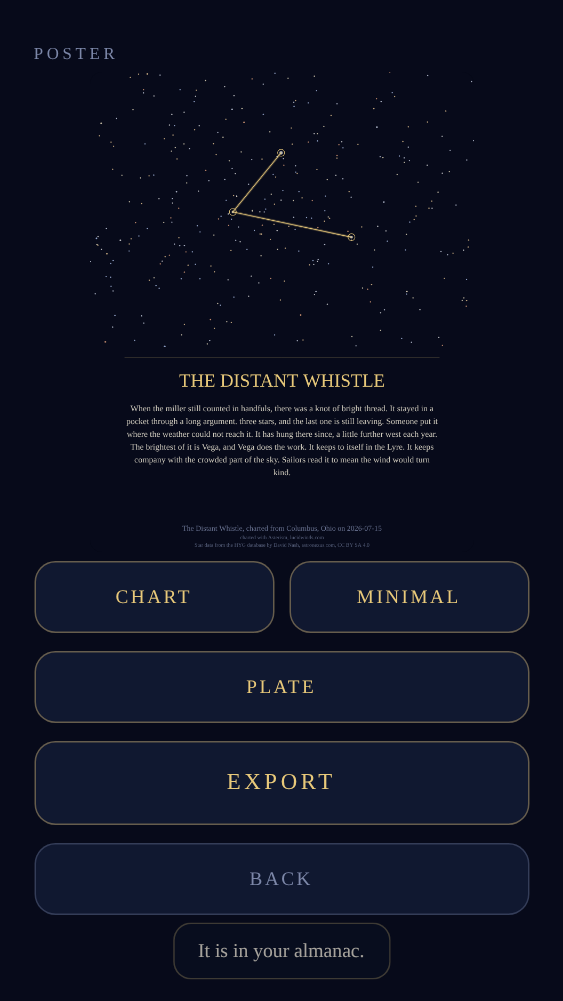
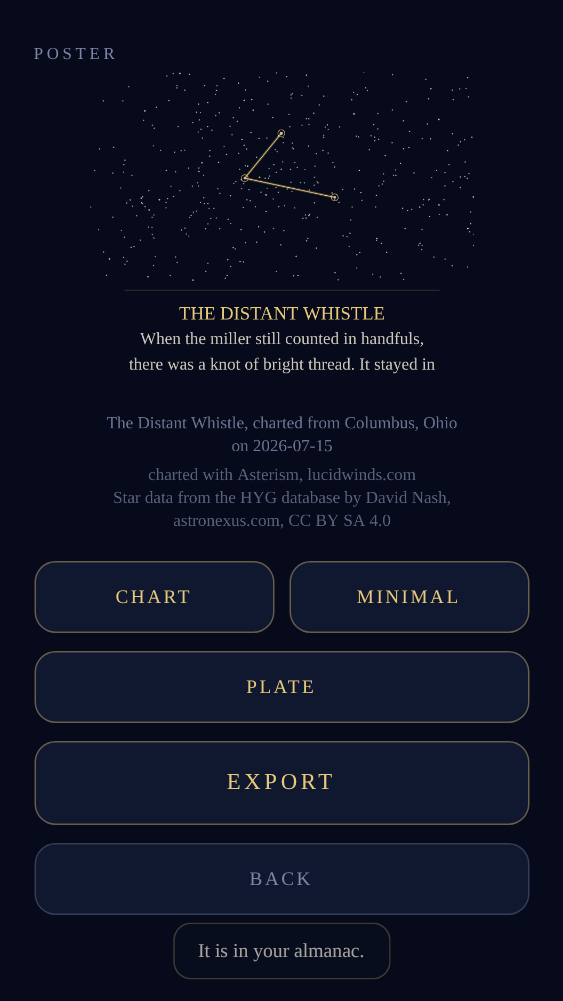
Asterism C10: the poster preview is its own layout, and the export is untouched to the pixel
The preview's smallest type was 5.0 CSS px, under the 0.7 rem law, and neither
lint could see it because the size is computed and the scale is a CSS rule in
another file.

Flooring the type alone was tried first and shipped worse, and was reverted the
same afternoon: every box is sized from the same fractions the type is, so the
myth overran its box, the foot landed on the myth and the credit ran off both
edges. A floor is not a layout.

The reflow: the myth's leading follows the type and its line count is whatever
fits, the foot has a band of its own and its lines wrap and walk a cursor, and
the chart gives way from 58 percent of the height to 44, because the poster's
own proportions do not leave room for a legible myth and a legible three line
credit in nine hundred pixels. A line under the canvas says the preview shows
the start of the myth and the poster carries all of it.

Three assertions, because the fault had three shapes and a size check can only
see one: the type is 0.7 rem on the screen, nothing overlaps or is clipped, and
the preview still shows a myth. That last one matters because with the chart
left alone the sum says no line fits, and a title with no words passes every
overlap check ever written.

Nine gates green. Stamp 20260907c.

Claude-Session: https://claude.ai/code/session_018DB4RoSYktXhZkZcaK82Vg

diff --git a/satellites/asterism/index.html b/satellites/asterism/index.html
@@ -9,9 +9,9 @@
 <meta name="apple-mobile-web-app-capable" content="yes">
 <meta name="apple-mobile-web-app-status-bar-style" content="black-translucent">
 <meta name="apple-mobile-web-app-title" content="ASTERISM">
-<link rel="manifest" href="./manifest.webmanifest?v=20260907b">
-<link rel="apple-touch-icon" href="./icon-192.png?v=20260907b">
-<link rel="icon" href="./icon-192.png?v=20260907b">
+<link rel="manifest" href="./manifest.webmanifest?v=20260907c">
+<link rel="apple-touch-icon" href="./icon-192.png?v=20260907c">
+<link rel="icon" href="./icon-192.png?v=20260907c">
 <link rel="canonical" href="https://lucidwinds.com/satellites/asterism/">
 <style>
 /*  ASTERISM
@@ -163,7 +163,7 @@ input:focus{outline:1px solid var(--gold)}
 .fail{color:#ff8080}.pass{color:#9be36b}
 @media (prefers-reduced-motion:reduce){*{transition-duration:1ms!important}}
 </style>
-<script src="/music-unlocks.js?v=20260907b" defer></script>
+<script src="/music-unlocks.js?v=20260907c" defer></script>
 </head>
 <body>
 <h1 style="position:absolute;width:1px;height:1px;margin:-1px;padding:0;overflow:hidden;clip:rect(0 0 0 0);clip-path:inset(50%);white-space:nowrap;border:0">ASTERISM</h1>
@@ -246,6 +246,7 @@ input:focus{outline:1px solid var(--gold)}
   <div class="screen" id="scrPoster">
     <div class="cap">Poster</div>
     <canvas id="posterPreview" width="720" height="900" style="width:100%;max-width:360px;border-radius:8px;background:#050814"></canvas>
+    <p class="tiny" id="posterNote">The preview shows the start of the myth at a size you can read. The poster carries all of it.</p>
     <div class="row">
       <button class="btn small" data-layout="chart" id="btnLayChart">CHART</button>
       <button class="btn small" data-layout="minimal" id="btnLayMin">MINIMAL</button>
@@ -2231,7 +2232,7 @@ function suitePurity(T, src) {
 // ---- TEST_EXPORT_END ----
 
 /* ========================= 13. BOOT ========================= */
-var STAMP = '20260907b';
+var STAMP = '20260907c';
 var G = {
   cat: null, place: null, whenMs: 0, mode: 'tonight',
   view: { alt: 55, az: 180, fov: CONFIG.FOV_DEFAULT },
@@ -2319,7 +2320,7 @@ function openMyth(entry) {
 }
 
 /* -------------------------------------------------------------- the poster */
-function drawChartTo(g, w, h, entry, layout) {
+function drawChartTo(g, w, h, entry, layout, chartFrac) {
   var i, cat = G.cat;
   var stars = starsOf(cat, entry.s);
   if (!stars.length) return;
@@ -2340,7 +2341,14 @@ function drawChartTo(g, w, h, entry, layout) {
     var sep = angSep(stars[i].ra, stars[i].dec, stars[j2].ra, stars[j2].dec);
     if (sep > span) span = sep;
   }
-  var chartH = layout === 'minimal' ? h : Math.round(h * 0.58);
+  /* ⛔ THE CHART GIVES WAY IN THE PREVIEW, because something has to. The words
+     under it have a floor on the screen and the poster's own proportions do not
+     leave room for a legible myth AND a legible three line credit in nine
+     hundred pixels: with the type at its floor and the chart at 58 percent the
+     myth's last line landed on the credit's first. The export keeps 58 percent
+     and is untouched; the preview takes 44, which is the same picture with less
+     sky around it and is what a preview is for. */
+  var chartH = layout === 'minimal' ? h : Math.round(h * (chartFrac || 0.58));
   g.fillStyle = layout === 'minimal' ? '#000000' : '#070A1A';
   g.fillRect(0, 0, w, h);
   /* the sky around it, faint, so the shape has a field to sit in */
@@ -2405,12 +2413,23 @@ function posterMinPx(cv) {
   return Math.ceil(11.2 * (cv.width / shown));
 }
 function renderPoster(g, w, h, entry, layout, minPx) {
-  var info = drawChartTo(g, w, h, entry, layout);
-  if (!info) return;
   var mn = minPx || 0;
+  var info = drawChartTo(g, w, h, entry, layout, mn ? 0.44 : 0.58);
+  if (!info) return;
   var serif = POSTER_SERIF;
   function pf(frac) { return Math.max(mn, Math.round(w * frac)) + 'px ' + serif; }
   var pad = Math.round(w * 0.09);
+  /* THE FOOT'S OWN BAND. On the export it is the sliver a poster gives it and
+     nothing about the file changes. In the PREVIEW the three lines are typeset
+     at the floored size, which no longer fits in a sliver, so the band grows and
+     everything above it is laid out against the band's top rather than against
+     the bottom of the page. `mn` being nought is the export, exactly as it was. */
+  var footLead = mn ? Math.max(Math.round(mn * 1.35), Math.round(w * 0.026)) : 0;
+  /* ⛔ 6.4, NOT 5.2. The foot is five lines when both wrapping lines take two,
+     plus two quarter line gaps, which is 5.5 before any bottom margin: at 5.2
+     the last line of the star data credit was cut in half by the bottom edge of
+     the canvas. Counted, not guessed. */
+  var footBand = mn ? Math.round(footLead * 6.4) : Math.round(w * 0.075);
   g.textAlign = 'center';
   g.fillStyle = '#E8E2D2';
   if (layout === 'minimal') {
@@ -2431,7 +2450,22 @@ function renderPoster(g, w, h, entry, layout, minPx) {
     g.fillText(entry.n.toUpperCase(), w / 2, info.chartH + pad * 1.05);
     g.fillStyle = 'rgba(232,226,210,.88)';
     g.font = pf(0.022);
-    wrapText(g, G.mythTextFor(entry), w / 2, info.chartH + pad * 1.75, w - pad * 2, Math.round(w * 0.033), 12);
+    /* ⛔ THE LEADING AND THE LINE COUNT REFLOW WITH THE TYPE. Floored type on
+       the old leading of `w * 0.033` overlapped itself, and twelve lines of it
+       overran the foot: the myth landed on the credit and the credit ran off
+       both edges. The gap follows the size, and the number of lines is whatever
+       fits between the rule under the chart and the top of the foot, so it can
+       never overrun whatever the type turns out to be. */
+    var mLead = mn ? Math.max(Math.round(mn * 1.5), Math.round(w * 0.033)) : Math.round(w * 0.033);
+    var mTop = info.chartH + pad * 1.75;
+    /* ⛔ NO FLOOR ON THE LINE COUNT. It was `Math.max(3, ...)`, which guarantees
+       an overrun the moment there is not room for three: at the narrow preview
+       the sum said one line would fit and the floor drew three, and the third
+       landed on the credit. What fits is what is drawn. The chart giving way
+       above is what makes sure enough fits to be worth reading. */
+    var mLines = mn ? Math.floor((h - footBand - mTop) / mLead) : 12;
+    var drew = wrapText(g, G.mythTextFor(entry), w / 2, mTop, w - pad * 2, mLead, Math.min(12, mLines));
+    if (mn) G.previewMythLines = drew;
   }
   if (layout === 'plate') {
     g.strokeStyle = 'rgba(232,201,122,.55)';
@@ -2448,16 +2482,38 @@ function renderPoster(g, w, h, entry, layout, minPx) {
   }
   /* the footer, and the credit that has to be on every one of these */
   g.textAlign = 'center';
-  g.fillStyle = 'rgba(124,135,168,.85)';
-  g.font = pf(0.019);
   var when = new Date(entry.d || entry.t);
-  g.fillText(entry.n + ', charted from ' + (entry.pn || (entry.p[0] + ', ' + entry.p[1])) +
-    ' on ' + when.toISOString().slice(0, 10), w / 2, h - Math.round(w * 0.055));
-  g.font = pf(0.0145);
-  g.fillStyle = 'rgba(124,135,168,.7)';
-  g.fillText('charted with Asterism, lucidwinds.com', w / 2, h - Math.round(w * 0.033));
-  g.fillText('Star data from the HYG database by David Nash, astronexus.com, CC BY SA 4.0',
-    w / 2, h - Math.round(w * 0.014));
+  var credit = entry.n + ', charted from ' + (entry.pn || (entry.p[0] + ', ' + entry.p[1]))
+    + ' on ' + when.toISOString().slice(0, 10);
+  var hyg = 'Star data from the HYG database by David Nash, astronexus.com, CC BY SA 4.0';
+  if (!mn) {
+    /* THE EXPORT, unchanged to the pixel. A file is not shrunk by anything, so
+       the sizes that are right for a 2048 poster are right here, and the three
+       lines sit in the sliver they have always sat in. */
+    g.fillStyle = 'rgba(124,135,168,.85)';
+    g.font = pf(0.019);
+    g.fillText(credit, w / 2, h - Math.round(w * 0.055));
+    g.font = pf(0.0145);
+    g.fillStyle = 'rgba(124,135,168,.7)';
+    g.fillText('charted with Asterism, lucidwinds.com', w / 2, h - Math.round(w * 0.033));
+    g.fillText(hyg, w / 2, h - Math.round(w * 0.014));
+  } else {
+    /* ⛔ THE PREVIEW, REFLOWED. At the floored size these three lines are two to
+       three times longer than the poster's width and they ran off both edges of
+       it, and stacked on the sliver's leading they landed on top of each other
+       and on the myth. They WRAP now, they walk down a cursor so a wrapped line
+       pushes the next one instead of covering it, and they live in the band the
+       block above was laid out against. */
+    var fy = h - footBand + footLead;
+    g.fillStyle = 'rgba(124,135,168,.85)';
+    g.font = pf(0.019);
+    fy += wrapText(g, credit, w / 2, fy, w - pad * 0.9, footLead, 2) * footLead;
+    g.font = pf(0.0145);
+    g.fillStyle = 'rgba(124,135,168,.7)';
+    fy += wrapText(g, 'charted with Asterism, lucidwinds.com', w / 2, fy + footLead * 0.25,
+      w - pad * 0.9, footLead, 1) * footLead;
+    wrapText(g, hyg, w / 2, fy + footLead * 0.25, w - pad * 0.9, footLead, 2);
+  }
 }
 function wrapText(g, text, cx, y, maxW, lh, maxLines) {
   var words = text.split(' '), line = '', lines = [], i;
@@ -2794,7 +2850,7 @@ function refreshPoster() {
      a REFLOW of the preview at its own scale, which is call C10 in
      HANDOFF-OPUS-SEP07.md and is a half day. `posterMinPx` and
      ASTERISM_DEV.posterType stay so whoever does it can measure. */
-  renderPoster(g, cv.width, cv.height, G.spread, G.posterLayout);
+  renderPoster(g, cv.width, cv.height, G.spread, G.posterLayout, posterMinPx(cv));
 }
 function exportPoster() {
   if (!G.spread) return;
@@ -2939,6 +2995,44 @@ window.ASTERISM_DEV = {
       pct: tot ? +(off / tot * 100).toFixed(2) : 0 };
   },
   frames: function () { return G.frames; },
+  /* ⛔ WHERE THE PREVIEW'S BLOCKS ACTUALLY END, read off the canvas. A size
+     check cannot see an overlap: flooring the type made the myth's last line
+     land on the credit's first and pushed the star data line off the bottom
+     edge, and every font size involved was correct while it happened. This
+     scans the poster's own pixels for the last row of the myth block and the
+     first row of the foot, and for how much clear margin is under the last row
+     of ink at all. */
+  previewMythLines: function () { return G.previewMythLines || 0; },
+  posterBands: function () {
+    var cv = $('posterPreview'); if (!cv) return { gap: -1, bottomClear: -1 };
+    var g = cv.getContext('2d');
+    var d = g.getImageData(0, 0, cv.width, cv.height).data;
+    var rows = [], y, x, i, on;
+    for (y = 0; y < cv.height; y++) {
+      on = 0;
+      for (x = 0; x < cv.width; x += 2) {
+        i = (y * cv.width + x) * 4;
+        /* the words are the pale and the gold; the chart's stars are above them
+           and the ground is #070A1A */
+        if (d[i] + d[i + 1] + d[i + 2] > 190) on++;
+      }
+      rows.push(on);
+    }
+    /* the foot starts where the last block of ink before the bottom margin
+       starts; walk up from the bottom through the clear margin, then through
+       the foot's ink, then through the gap above it */
+    var b = cv.height - 1;
+    while (b > 0 && rows[b] === 0) b--;
+    var bottomClear = cv.height - 1 - b;
+    var footTop = b;
+    while (footTop > 0 && !(rows[footTop] === 0 && rows[footTop - 1] === 0
+      && rows[footTop - 2] === 0 && rows[footTop - 3] === 0 && rows[footTop - 4] === 0
+      && rows[footTop - 5] === 0)) footTop--;
+    var mythBottom = footTop;
+    while (mythBottom > 0 && rows[mythBottom] === 0) mythBottom--;
+    return { gap: footTop - mythBottom, bottomClear: bottomClear,
+      footTop: footTop, mythBottom: mythBottom };
+  },
   /* the smallest type in the poster PREVIEW, in CSS pixels of the screen a
      player is looking at, which is the only place the 0.7 rem floor means
      anything. The export is a file and is not shrunk by anything. */

diff --git a/satellites/asterism/sw.js b/satellites/asterism/sw.js
@@ -12,7 +12,7 @@
    Bump SHELL_VERSION on every deploy, AND the ?v= on the registration in
    index.html in lockstep — this host edge-pins bare sw.js URLs for 7 days. */
 
-const SHELL_VERSION = "asterism-shell-20260907b";
+const SHELL_VERSION = "asterism-shell-20260907c";
 const SFX_CACHE     = "asterism-unused-v1"; // no recorded audio: every sound is synthesised
 const NAV_TIMEOUT_MS = 8000;
 
@@ -24,7 +24,7 @@ const SHELL_ASSETS = [
   "./icon-512.png",
   "./icon-maskable-512.png",
   /* the sky itself: without this the app opens to an empty dome offline */
-  "./data/hyg-asterism.json?v=20260907b"
+  "./data/hyg-asterism.json?v=20260907c"
 ];
 
 self.addEventListener("install", event => {

diff --git a/satellites/asterism/docs/DECISIONS.md b/satellites/asterism/docs/DECISIONS.md
@@ -130,3 +130,41 @@ wrong tool. Anything STANDING on the land is darker than the land, wherever the 
 that is what is counted: 3.89, 4.09 and 4.11 percent with the furniture and exactly zero without,
 at all three sizes. It is a class and not a constant, so painting the trees a different dark
 still holds it.
+
+
+**D-C10 (2026-09-07, Opus) — the preview is its own layout, and the export is untouched to the
+pixel.** The poster's every size is a fraction of its own width, which is right for a 2048 px
+file and wrong for a 720 px canvas shown at 360: the credit and the star data line came out at
+5.2 and 3.7 CSS px and the myth body at 8, under the fleet's 0.7 rem law, on the screen a player
+actually looks at. Neither the rem lint nor the canvas font lint could see it, because the size
+is computed and the scale is a CSS rule in another file.
+
+**What did not work, and it was tried and shot before it was thrown away:** flooring the type
+alone. Every BOX is sized from the same fractions the type is, so floored type overran the myth's
+box, the footer's three lines landed on top of the myth and each other, and the credit ran off
+both edges of the poster. A floor is not a layout.
+
+**What the preview is now.** `mn` being nought is the export and every line of it is the code
+that was there before. With `mn` set:
+- the myth's LEADING follows the type, and its LINE COUNT is whatever fits between the rule under
+  the chart and the top of the foot, so it can never overrun whatever the type turns out to be;
+- the FOOT has a band of its own, six and a bit lines deep, and its three lines WRAP and walk down
+  a cursor, so a wrapped line pushes the next one instead of covering it;
+- and the CHART gives way, 58 percent of the height to 44. Something had to: the poster's own
+  proportions do not leave room for a legible myth and a legible three line credit in nine hundred
+  pixels. It is the same picture with less sky around it, which is what a preview is for.
+- A line under the canvas says the preview shows the start of the myth and the poster carries all
+  of it, because it does: two lines here, twelve in the file.
+
+**D-C10b (2026-09-07, Opus) — three assertions, because the fault had three shapes and a size
+check can only see one of them.**
+1. The smallest type is 0.7 rem ON THE SCREEN, measured in the pixels a player looks at. Red at
+   3.56 with the floor removed.
+2. Nothing overlaps and nothing is clipped, measured as the clear rows between the myth block's
+   last ink and the foot's first, and the margin under the last ink of all. Red at 0 px of bottom
+   margin with the foot band back at 5.2 lines. ⛔ A size check cannot see an overlap: every font
+   size involved was correct while the myth was landing on the credit.
+3. ⛔ AND THE PREVIEW STILL SHOWS A MYTH. Nothing overlapping is not enough: with the chart left
+   at its poster proportion the sum simply says no line fits, the preview shows a title and a
+   credit and no words at all, and that passes every overlap check ever written. Red at minus one
+   line with the chart mutation.

diff --git a/plans/asterism/HANDOFF-ASTERISM.md b/plans/asterism/HANDOFF-ASTERISM.md
@@ -27,6 +27,27 @@ the game folder; you do not fetch anything from the network at night.
   of them are Stephen's: the CC BY SA licence read before a paid store, and whether the system serif holds up with a
   printed poster in his hand.
 
+- 2026-09-07 Opus (lead): **C10 IS DONE. THE POSTER PREVIEW IS ITS OWN LAYOUT.** Stamp
+  `20260907c` in three places. `node tools/check.js` ALL GATES PASSED over the nine.
+  The preview's smallest type was 5.0 CSS px at 412x915 and 3.56 at the short sizes, under the
+  0.7 rem law, and neither lint could see it because the size is computed and the scale is a CSS
+  rule in another file. ⛔ FLOORING THE TYPE ALONE WAS TRIED FIRST AND SHIPPED WORSE, and it was
+  reverted the same afternoon: every box is sized from the same fractions the type is, so the
+  myth overran its box, the foot landed on the myth and the credit ran off both edges. A floor is
+  not a layout. The reflow: the myth's leading follows the type and its line count is whatever
+  fits, the foot has a band of its own and its lines wrap and walk a cursor, and the chart gives
+  way from 58 percent of the height to 44 because something had to. The export passes no floor
+  and is the same code it was, to the pixel. D-C10.
+  **Three assertions, because the fault had three shapes** (D-C10b): the type is 0.7 rem on the
+  screen; nothing overlaps or is clipped, measured as clear rows between the blocks; and the
+  preview STILL SHOWS A MYTH, because with the chart left alone the sum says no line fits and a
+  title with no words passes every overlap check ever written. Each watched to fail under its own
+  mutation.
+  **Also today:** C1, the treeline and the fence, and the ear gate that found the swell was
+  clipping at 1.907.
+  **Next action:** the six anchor myths (call D18) and the serif (D19) are Stephen's. Nothing
+  here is half built.
+
 ---
 
 ## 0. RULES OF ENGAGEMENT
